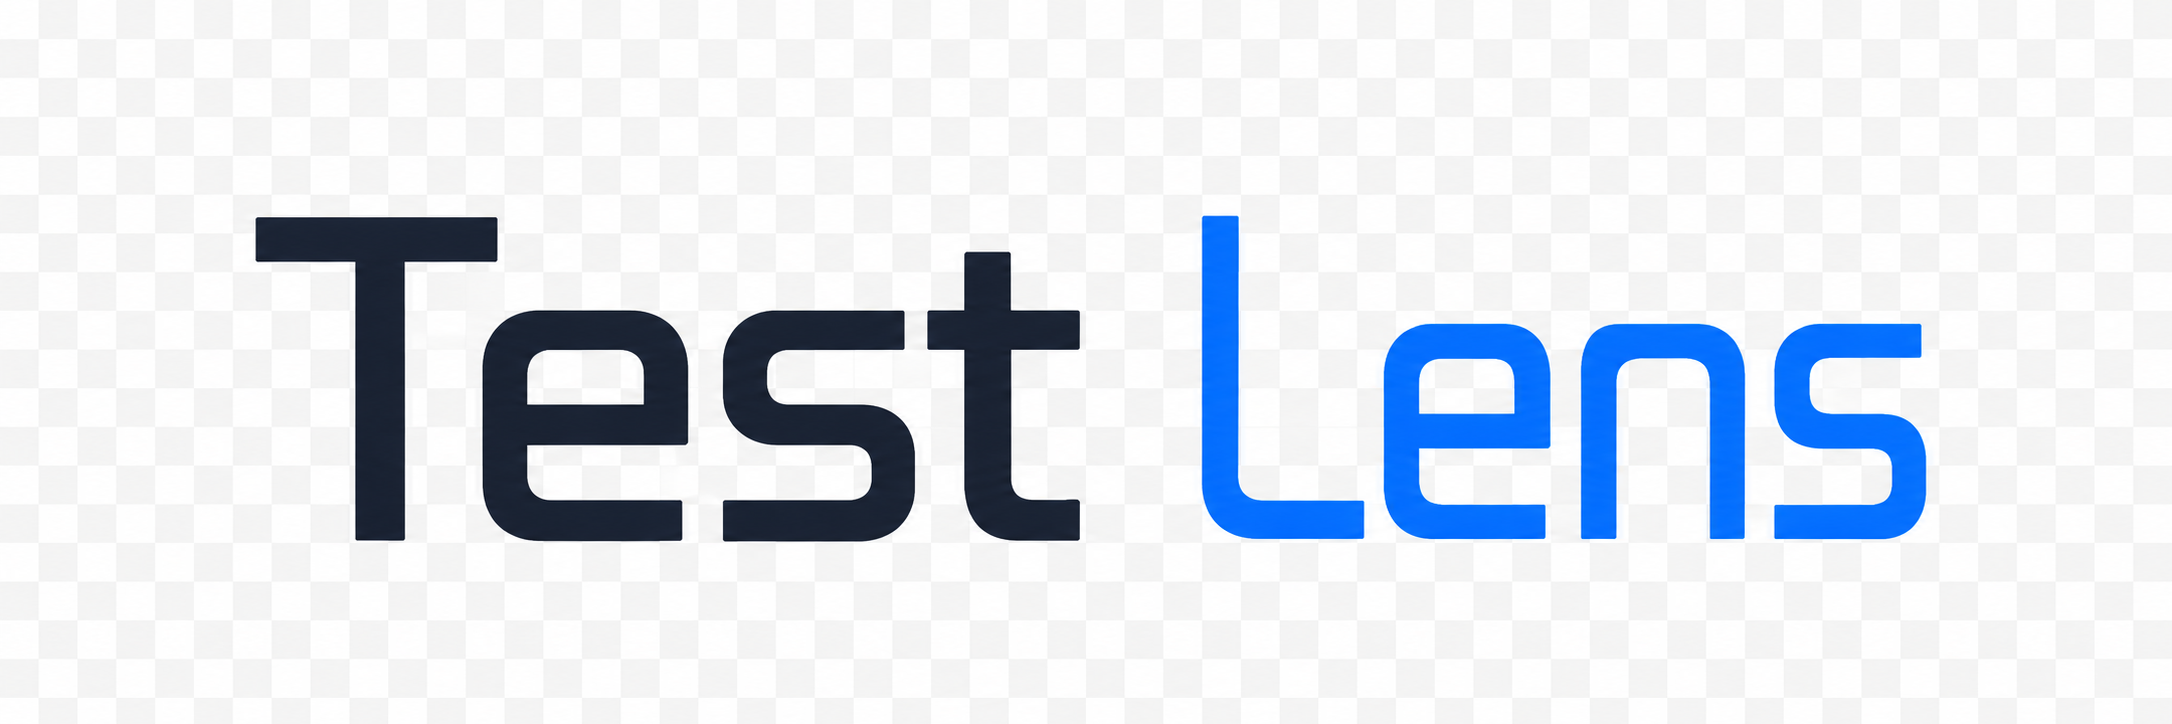
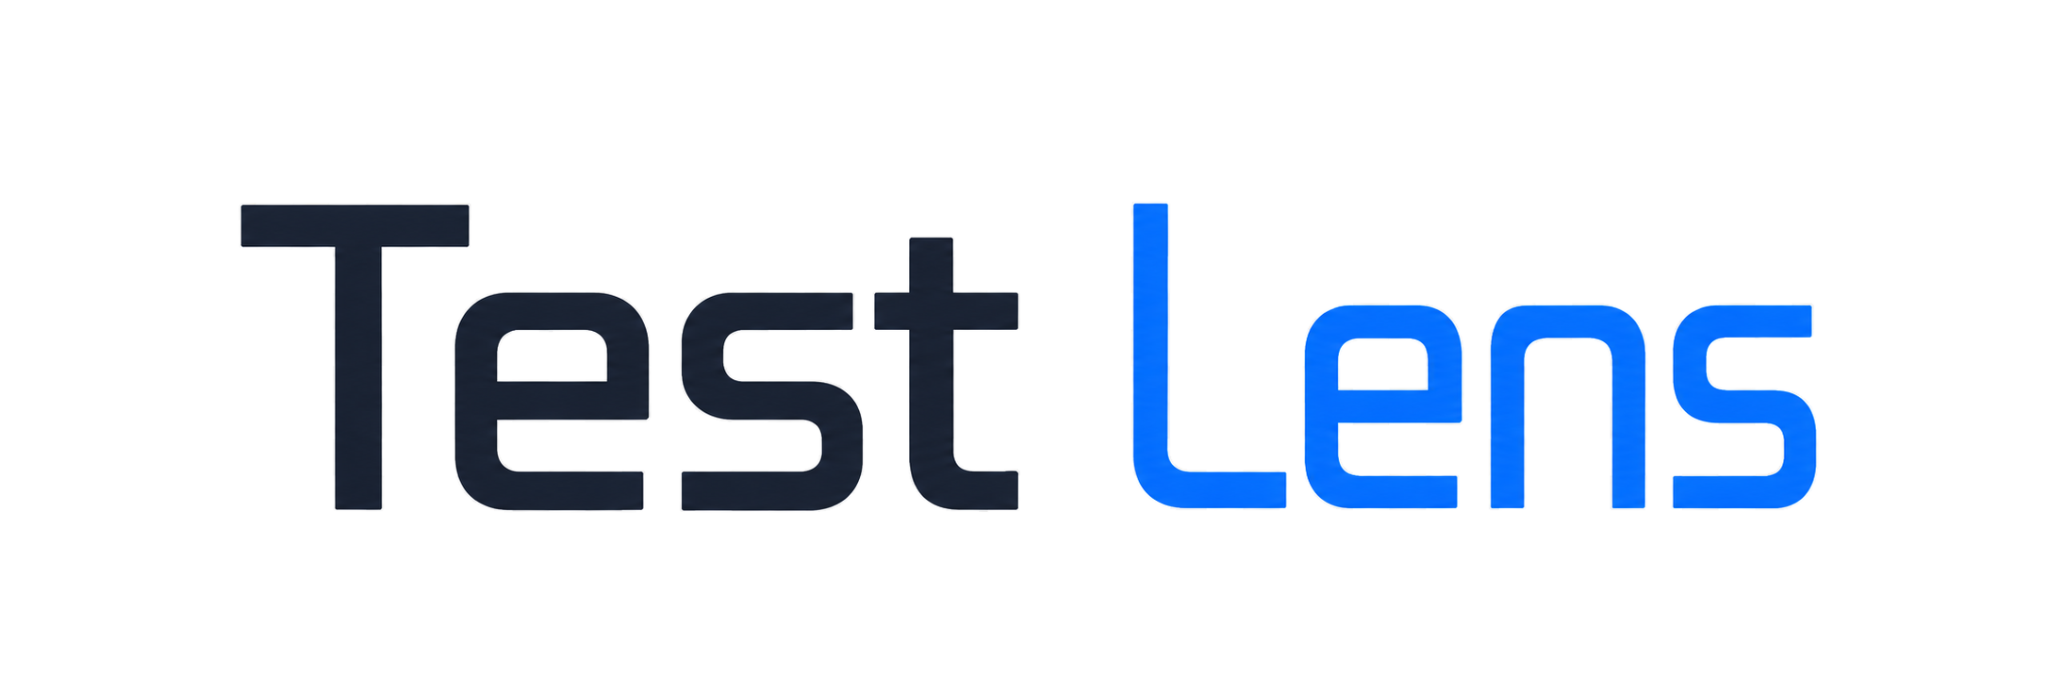
docs(brand): finalize transparent release assets

diff --git a/docs/assets/brand/README.md b/docs/assets/brand/README.md
@@ -18,7 +18,3 @@ This folder contains source PNG assets for Selenium Test Lens documentation and 
 - HUD runtime branding should use CSS, SVG, or inline assets rather than documentation image files.
 - Keep image paths relative and GitHub-renderable when referencing these assets from docs.
 - Verify transparent backgrounds before public release.
-
-## TODO
-
-The current PNGs appear to include a checkerboard-style background in preview. Before public release, replace them with true transparent PNG or SVG assets if the checkerboard is baked into the image rather than real alpha transparency.
